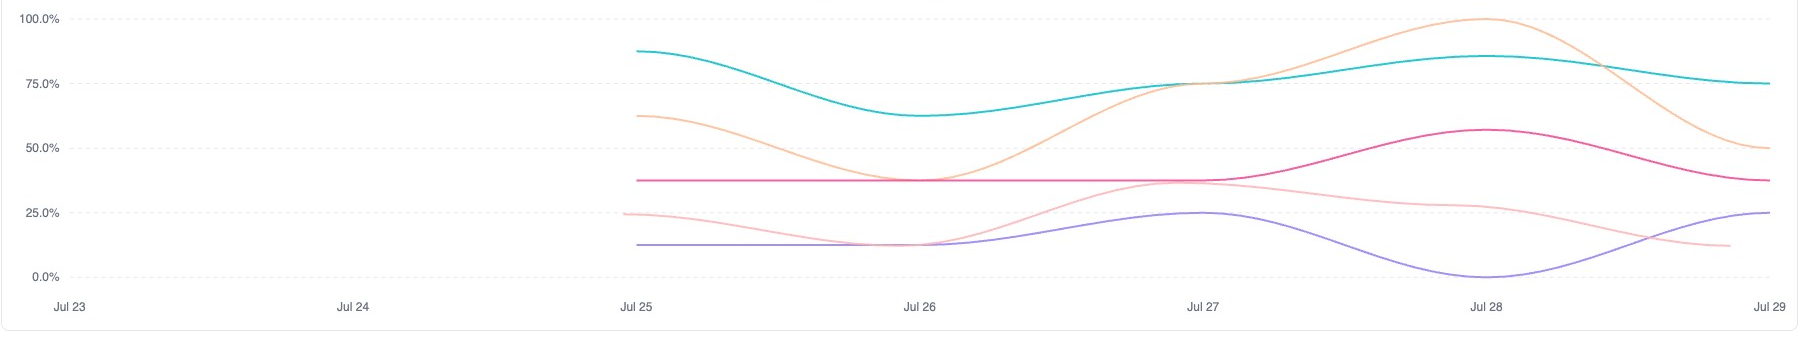
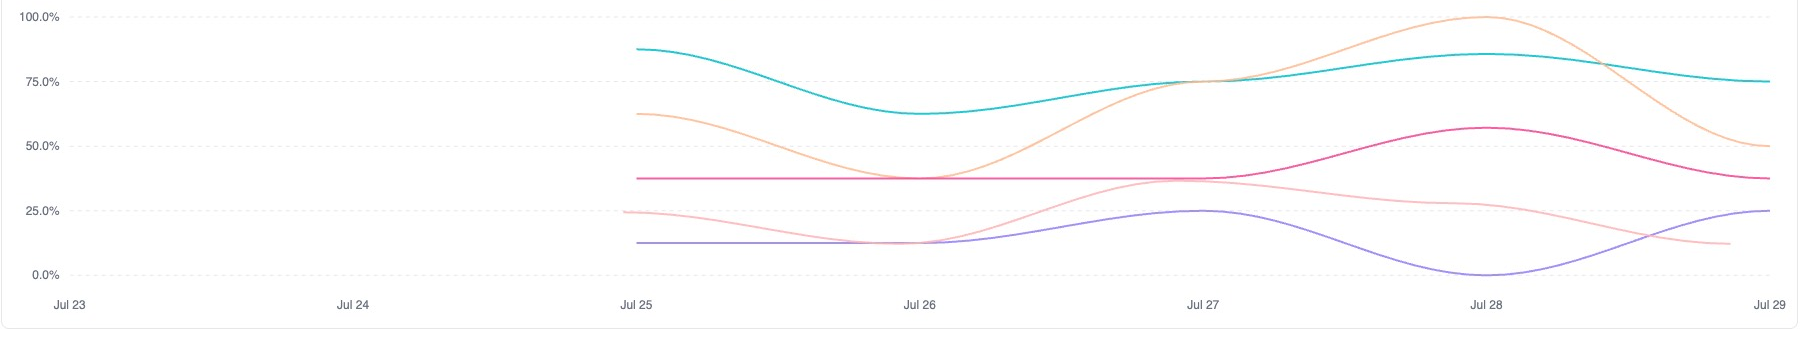
OCBC deck: 3 product visibility slides with native legends
Savings, credit card and digital banking — each with the overall
visibility trend, the tracker's KPI strip in M&C type, and TOFU/MOFU/
BOFU trends on the right.

Legends rebuilt natively (the embedded ones were unreadable at slide
size), colours sampled from the source charts. Critically, the tracker
assigns colour by series POSITION and the competitor set changes per
stage — teal is Mandiri on the credit-card overall chart but BCA on its
TOFU chart — so each of the 12 charts carries its own key rather than
one legend per slide. Screenshots recropped below their legends.

Deck is now 22 slides. Also fixed the overflow check, which was blind:
sections are overflow:hidden, so scrollHeight never exceeded
clientHeight and clipped content read as passing.

diff --git a/ocbc-mcs-deck/index.html b/ocbc-mcs-deck/index.html
@@ -230,6 +230,16 @@ ul.pts li:last-child{padding-bottom:0}
   border-left:4px solid var(--mcs-green-deep);font-size:18px;color:#4A4A4A}
 .ph-note strong{color:var(--mcs-black)}
 
+/* native legend — the tracker assigns colour by series position, and the
+   competitor set changes per stage, so every chart carries its own key */
+.lgd{display:flex;flex-wrap:wrap;gap:6px 18px;margin:0 0 10px}
+.lgd .lg{display:inline-flex;align-items:center;gap:7px;font-size:14px;color:#C8C8C8;white-space:nowrap}
+.lgd .lg i{width:13px;height:13px;border-radius:2px;flex:none}
+.lgd .lg.me{color:var(--mcs-white);font-weight:700}
+.lgd.sm{gap:4px 11px;margin-bottom:7px}
+.lgd.sm .lg{font-size:10.5px}
+.lgd.sm .lg i{width:10px;height:10px}
+
 /* ---------- product visibility slides (master chart + funnel charts) ---------- */
 .vgrid{display:grid;grid-template-columns:1.42fr 1fr;gap:28px;margin-top:24px;flex:1;min-height:0}
 .vmain{display:flex;flex-direction:column;min-height:0}
@@ -244,12 +254,12 @@ ul.pts li:last-child{padding-bottom:0}
 .shot{background:#fff;padding:10px 12px;display:block;width:100%;height:auto}
 .vmain .shot{width:100%;height:auto;display:block}
 
-.vside{display:flex;flex-direction:column;gap:14px;min-height:0}
+.vside{display:flex;flex-direction:column;gap:12px;min-height:0}
 .vcard{display:flex;flex-direction:column;background:var(--mcs-panel);
-  border-left:3px solid var(--mcs-grey-dim);padding:12px 14px;flex:1;min-height:0}
+  border-left:3px solid var(--mcs-grey-dim);padding:9px 12px;flex:1;min-height:0}
 .vcard.peak{border-left-color:var(--mcs-green)}
 .vcard.trough{border-left-color:var(--mcs-white)}
-.vcard .vc-top{display:flex;align-items:baseline;justify-content:space-between;gap:12px;margin-bottom:8px}
+.vcard .vc-top{display:flex;align-items:baseline;justify-content:space-between;gap:12px;margin-bottom:6px}
 .vcard .vc-s{font-size:13px;font-weight:700;letter-spacing:.18em;text-transform:uppercase;color:var(--mcs-white)}
 .vcard .vc-s small{display:block;font-size:11px;font-weight:400;letter-spacing:.04em;
   text-transform:none;color:var(--mcs-grey);margin-top:2px}
@@ -257,7 +267,7 @@ ul.pts li:last-child{padding-bottom:0}
   color:var(--mcs-grey);white-space:nowrap}
 .vcard.peak .vc-v{color:var(--mcs-green)}
 .vcard.trough .vc-v{color:var(--mcs-white)}
-.vcard .shot{flex:1;min-height:0;object-fit:cover;object-position:center}
+.vcard .shot{width:100%;height:94px;object-fit:cover;object-position:center}
 
 .vkpi{display:grid;grid-template-columns:repeat(5,1fr);gap:0;margin-top:auto;
   border-top:1px solid var(--mcs-rule);padding-top:12px}
@@ -382,7 +392,7 @@ ol.plist li .pen{color:var(--mcs-grey);font-style:italic}
 
   <div class="foot">
     <p>Sources: Ahrefs (Indonesia), live crawl June 2026, 60 live buyer-question tests across Google AI Overview, ChatGPT and Gemini</p>
-    <p class="num">02 / 20</p>
+    <p class="num">02 / 22</p>
   </div>
 </section>
 
@@ -420,7 +430,7 @@ ol.plist li .pen{color:var(--mcs-grey);font-style:italic}
 
   <div class="foot">
     <p>Source: Ahrefs, Indonesia market, June 2026</p>
-    <p class="num">03 / 20</p>
+    <p class="num">03 / 22</p>
   </div>
 </section>
 
@@ -449,7 +459,7 @@ ol.plist li .pen{color:var(--mcs-grey);font-style:italic}
 
   <div class="foot">
     <p>Source: Ahrefs product-page traffic, Indonesia, June 2026</p>
-    <p class="num">04 / 20</p>
+    <p class="num">04 / 22</p>
   </div>
 </section>
 
@@ -494,7 +504,7 @@ ol.plist li .pen{color:var(--mcs-grey);font-style:italic}
 
   <div class="foot">
     <p>Sources: Ahrefs, Indonesia; live page crawl of bankmandiri.co.id/tabunganku and ocbc.id TabunganKu, June 2026</p>
-    <p class="num">05 / 20</p>
+    <p class="num">05 / 22</p>
   </div>
 </section>
 
@@ -533,7 +543,7 @@ ol.plist li .pen{color:var(--mcs-grey);font-style:italic}
 
   <div class="foot">
     <p>Source: OCBC blog page-level classification, 2,500 pages, Ahrefs traffic June 2026</p>
-    <p class="num">06 / 20</p>
+    <p class="num">06 / 22</p>
   </div>
 </section>
 
@@ -576,7 +586,7 @@ ol.plist li .pen{color:var(--mcs-grey);font-style:italic}
 
   <div class="foot">
     <p>Source: live crawl of ocbc.id core product pages, June 2026 — this is on-page work on assets that already exist</p>
-    <p class="num">07 / 20</p>
+    <p class="num">07 / 22</p>
   </div>
 </section>
 
@@ -587,7 +597,7 @@ ol.plist li .pen{color:var(--mcs-grey);font-style:italic}
   <p class="ds">Search is no longer only a list of links. Buyers ask a question in their own words and act on the answer they are given. OCBC is already in that answer — but as an article about dream meanings, not as a bank with a product to sell.</p>
   <div class="foot">
     <p>60 live buyer questions tested across Google AI Overview, ChatGPT and Gemini — savings and credit card, June 2026</p>
-    <p class="num">08 / 20</p>
+    <p class="num">08 / 22</p>
   </div>
 </section>
 
@@ -629,24 +639,75 @@ ol.plist li .pen{color:var(--mcs-grey);font-style:italic}
 
   <div class="foot">
     <p>Source to be added</p>
-    <p class="num">09 / 20</p>
+    <p class="num">09 / 22</p>
   </div>
 </section>
 
-<!-- ============ 10 · PRODUCT VISIBILITY — CREDIT CARD ============ -->
+<!-- ============ 10 · PRODUCT VISIBILITY ============ -->
+<section class="s">
+  <img class="logo" src="assets/mcs-logo-white.svg" alt="M&amp;C Saatchi Performance">
+  <p class="kicker">GEO opportunity <span class="sep">/</span> Savings</p>
+  <h1 class="t sm">Strongest when they learn.<br>Absent when they compare.</h1>
+  <p class="sub">OCBC leads at <strong>46.0%</strong> while buyers research saving, then collapses to <strong>16.0%</strong> at the comparison stage &mdash; the moment the account is actually chosen.</p>
+  <div class="vgrid">
+    <div class="vmain">
+      <div class="vhead"><div class="vh-l">All savings prompts &middot; visibility score over time</div><div class="vh-v">30.9%</div></div>
+      <div class="lgd "><span class="lg me"><i style="background:#9989EE"></i>OCBC NISP</span><span class="lg"><i style="background:#1EBEC8"></i>Mandiri</span><span class="lg"><i style="background:#F9BF9D"></i>BCA</span><span class="lg"><i style="background:#E85896"></i>DBS</span><span class="lg"><i style="background:#F7B5B8"></i>CIMB Niaga</span></div>
+      <img class="shot" src="assets/sv-all.png" alt="AI search visibility over time for OCBC NISP against competitors, 23 to 29 July 2026">
+      <div class="vkpi">
+        <div><div class="k-v">43<span class="dim" style="font-size:15px">/139</span></div><div class="k-l">Brand mentions</div></div>
+        <div><div class="k-v">2.0</div><div class="k-l">Avg. position</div></div>
+        <div><div class="k-v g">30.9%</div><div class="k-l">Visibility</div></div>
+        <div><div class="k-v">21.1%</div><div class="k-l">Share of voice</div></div>
+        <div><div class="k-v">6.6%</div><div class="k-l">Owned citation share</div></div>
+      </div>
+    </div>
+
+    <div class="vside">
+      <div class="vcard peak">
+        <div class="vc-top">
+          <div class="vc-s">TOFU<small>Learning how to save</small></div>
+          <div class="vc-v">46.0%</div>
+        </div>
+        <div class="lgd sm"><span class="lg me"><i style="background:#9989EE"></i>OCBC NISP</span><span class="lg"><i style="background:#1EBEC8"></i>Mandiri</span><span class="lg"><i style="background:#F9BF9D"></i>BCA</span><span class="lg"><i style="background:#E85896"></i>DBS</span><span class="lg"><i style="background:#F7B5B8"></i>CIMB Niaga</span></div>
+        <img class="shot" src="assets/sv-tofu.png" alt="Visibility score over time at the TOFU stage">
+      </div>
+      <div class="vcard trough">
+        <div class="vc-top">
+          <div class="vc-s">MOFU<small>Comparing accounts</small></div>
+          <div class="vc-v">16.0%</div>
+        </div>
+        <div class="lgd sm"><span class="lg me"><i style="background:#9989EE"></i>OCBC NISP</span><span class="lg"><i style="background:#1EBEC8"></i>Mandiri</span><span class="lg"><i style="background:#F9BF9D"></i>BCA</span><span class="lg"><i style="background:#E85896"></i>CIMB Niaga</span><span class="lg"><i style="background:#F7B5B8"></i>Danamon</span></div>
+        <img class="shot" src="assets/sv-mofu.png" alt="Visibility score over time at the MOFU stage">
+      </div>
+      <div class="vcard ">
+        <div class="vc-top">
+          <div class="vc-s">BOFU<small>Ready to open</small></div>
+          <div class="vc-v">30.8%</div>
+        </div>
+        <div class="lgd sm"><span class="lg me"><i style="background:#9989EE"></i>OCBC NISP</span><span class="lg"><i style="background:#1EBEC8"></i>Mandiri</span><span class="lg"><i style="background:#F9BF9D"></i>DBS</span><span class="lg"><i style="background:#E85896"></i>BCA</span><span class="lg"><i style="background:#F7B5B8"></i>Jenius</span></div>
+        <img class="shot" src="assets/sv-bofu.png" alt="Visibility score over time at the BOFU stage">
+      </div>
+    </div>
+  </div>
+
+  <div class="foot">
+    <p>AI search visibility tracked daily 23&ndash;29 July 2026. Line colours follow the tracker &mdash; the competitor set differs per stage, so each chart carries its own key</p>
+    <p class="num">10 / 22</p>
+  </div>
+</section>
+
+<!-- ============ 11 · PRODUCT VISIBILITY ============ -->
 <section class="s">
   <img class="logo" src="assets/mcs-logo-white.svg" alt="M&amp;C Saatchi Performance">
   <p class="kicker">GEO opportunity <span class="sep">/</span> Credit card</p>
   <h1 class="t sm">Visible while they learn.<br>Invisible when they apply.</h1>
-  <p class="sub">OCBC holds a <strong>24–29%</strong> visibility score while buyers are researching, then falls to <strong>15.4%</strong> at the apply moment — where BCA and Mandiri run between 75% and 100%.</p>
-
+  <p class="sub">OCBC holds <strong>24&ndash;29%</strong> while buyers are researching, then falls to <strong>15.4%</strong> at the apply moment &mdash; where BCA and Mandiri run between 75% and 100%.</p>
   <div class="vgrid">
     <div class="vmain">
-      <div class="vhead">
-        <div class="vh-l">All credit-card prompts &middot; visibility score over time</div>
-        <div class="vh-v">23.2%</div>
-      </div>
-      <img class="shot" src="assets/cc-all.png" alt="AI search visibility over time for OCBC NISP against Mandiri, BCA, CIMB Niaga and Danamon across all credit-card prompts, 23 to 29 July 2026">
+      <div class="vhead"><div class="vh-l">All credit-card prompts &middot; visibility score over time</div><div class="vh-v">23.2%</div></div>
+      <div class="lgd "><span class="lg me"><i style="background:#9989EE"></i>OCBC NISP</span><span class="lg"><i style="background:#1EBEC8"></i>Mandiri</span><span class="lg"><i style="background:#F9BF9D"></i>BCA</span><span class="lg"><i style="background:#E85896"></i>CIMB Niaga</span><span class="lg"><i style="background:#F7B5B8"></i>Danamon</span></div>
+      <img class="shot" src="assets/cc-all.png" alt="AI search visibility over time for OCBC NISP against competitors, 23 to 29 July 2026">
       <div class="vkpi">
         <div><div class="k-v">32<span class="dim" style="font-size:15px">/138</span></div><div class="k-l">Brand mentions</div></div>
         <div><div class="k-v">2.3</div><div class="k-l">Avg. position</div></div>
@@ -657,33 +718,90 @@ ol.plist li .pen{color:var(--mcs-grey);font-style:italic}
     </div>
 
     <div class="vside">
-      <div class="vcard">
+      <div class="vcard ">
         <div class="vc-top">
           <div class="vc-s">TOFU<small>Learning how cards work</small></div>
           <div class="vc-v">24.0%</div>
         </div>
-        <img class="shot" src="assets/cc-tofu.png" alt="Visibility score over time at the TOFU stage, OCBC NISP against competitors">
+        <div class="lgd sm"><span class="lg me"><i style="background:#9989EE"></i>OCBC NISP</span><span class="lg"><i style="background:#1EBEC8"></i>BCA</span><span class="lg"><i style="background:#F9BF9D"></i>Mandiri</span><span class="lg"><i style="background:#E85896"></i>CIMB Niaga</span><span class="lg"><i style="background:#F7B5B8"></i>Danamon</span></div>
+        <img class="shot" src="assets/cc-tofu.png" alt="Visibility score over time at the TOFU stage">
       </div>
       <div class="vcard peak">
         <div class="vc-top">
           <div class="vc-s">MOFU<small>Choosing between cards</small></div>
           <div class="vc-v">28.6%</div>
         </div>
-        <img class="shot" src="assets/cc-mofu.png" alt="Visibility score over time at the MOFU stage, OCBC NISP against competitors">
+        <div class="lgd sm"><span class="lg me"><i style="background:#9989EE"></i>OCBC NISP</span><span class="lg"><i style="background:#1EBEC8"></i>BCA</span><span class="lg"><i style="background:#F9BF9D"></i>Mandiri</span><span class="lg"><i style="background:#E85896"></i>CIMB Niaga</span><span class="lg"><i style="background:#F7B5B8"></i>UOB Indonesia</span></div>
+        <img class="shot" src="assets/cc-mofu.png" alt="Visibility score over time at the MOFU stage">
       </div>
       <div class="vcard trough">
         <div class="vc-top">
           <div class="vc-s">BOFU<small>Ready to apply</small></div>
           <div class="vc-v">15.4%</div>
         </div>
-        <img class="shot" src="assets/cc-bofu.png" alt="Visibility score over time at the BOFU stage, OCBC NISP trailing Mandiri, BCA, CIMB Niaga and Danamon">
+        <div class="lgd sm"><span class="lg me"><i style="background:#9989EE"></i>OCBC NISP</span><span class="lg"><i style="background:#1EBEC8"></i>Mandiri</span><span class="lg"><i style="background:#F9BF9D"></i>BCA</span><span class="lg"><i style="background:#E85896"></i>CIMB Niaga</span><span class="lg"><i style="background:#F7B5B8"></i>Danamon</span></div>
+        <img class="shot" src="assets/cc-bofu.png" alt="Visibility score over time at the BOFU stage">
       </div>
     </div>
   </div>
 
   <div class="foot">
-    <p>AI search visibility tracked daily 23&ndash;29 July 2026 vs Mandiri, BCA, CIMB Niaga and Danamon &mdash; the deeper the funnel, the wider the gap</p>
-    <p class="num">10 / 20</p>
+    <p>AI search visibility tracked daily 23&ndash;29 July 2026. Line colours follow the tracker &mdash; the competitor set differs per stage, so each chart carries its own key</p>
+    <p class="num">11 / 22</p>
+  </div>
+</section>
+
+<!-- ============ 12 · PRODUCT VISIBILITY ============ -->
+<section class="s">
+  <img class="logo" src="assets/mcs-logo-white.svg" alt="M&amp;C Saatchi Performance">
+  <p class="kicker">GEO opportunity <span class="sep">/</span> Digital banking</p>
+  <h1 class="t sm">Visibility halves at<br>every step of the funnel.</h1>
+  <p class="sub">OCBC&rsquo;s weakest AI position: <strong>14.2%</strong> overall, falling from 22.5% to 12.0% to <strong>6.7%</strong> at the point of opening an account &mdash; where Mandiri holds 63&ndash;84%.</p>
+  <div class="vgrid">
+    <div class="vmain">
+      <div class="vhead"><div class="vh-l">All digital-banking prompts &middot; visibility score over time</div><div class="vh-v">14.2%</div></div>
+      <div class="lgd "><span class="lg me"><i style="background:#9989EE"></i>OCBC NISP</span><span class="lg"><i style="background:#1EBEC8"></i>BCA</span><span class="lg"><i style="background:#F9BF9D"></i>Mandiri</span><span class="lg"><i style="background:#E85896"></i>Jenius</span><span class="lg"><i style="background:#F7B5B8"></i>DBS</span></div>
+      <img class="shot" src="assets/db-all.png" alt="AI search visibility over time for OCBC NISP against competitors, 23 to 29 July 2026">
+      <div class="vkpi">
+        <div><div class="k-v">17<span class="dim" style="font-size:15px">/120</span></div><div class="k-l">Brand mentions</div></div>
+        <div><div class="k-v">2.5</div><div class="k-l">Avg. position</div></div>
+        <div><div class="k-v g">14.2%</div><div class="k-l">Visibility</div></div>
+        <div><div class="k-v">7.4%</div><div class="k-l">Share of voice</div></div>
+        <div><div class="k-v">2.6%</div><div class="k-l">Owned citation share</div></div>
+      </div>
+    </div>
+
+    <div class="vside">
+      <div class="vcard peak">
+        <div class="vc-top">
+          <div class="vc-s">TOFU<small>Learning what digital banking is</small></div>
+          <div class="vc-v">22.5%</div>
+        </div>
+        <div class="lgd sm"><span class="lg me"><i style="background:#9989EE"></i>OCBC NISP</span><span class="lg"><i style="background:#1EBEC8"></i>BCA</span><span class="lg"><i style="background:#F9BF9D"></i>Jenius</span><span class="lg"><i style="background:#E85896"></i>Mandiri</span><span class="lg"><i style="background:#F7B5B8"></i>DBS</span></div>
+        <img class="shot" src="assets/db-tofu.png" alt="Visibility score over time at the TOFU stage">
+      </div>
+      <div class="vcard ">
+        <div class="vc-top">
+          <div class="vc-s">MOFU<small>Comparing digital banks</small></div>
+          <div class="vc-v">12.0%</div>
+        </div>
+        <div class="lgd sm"><span class="lg me"><i style="background:#9989EE"></i>OCBC NISP</span><span class="lg"><i style="background:#1EBEC8"></i>BCA</span><span class="lg"><i style="background:#F9BF9D"></i>Mandiri</span><span class="lg"><i style="background:#E85896"></i>DBS</span><span class="lg"><i style="background:#F7B5B8"></i>Jenius</span></div>
+        <img class="shot" src="assets/db-mofu.png" alt="Visibility score over time at the MOFU stage">
+      </div>
+      <div class="vcard trough">
+        <div class="vc-top">
+          <div class="vc-s">BOFU<small>Ready to open</small></div>
+          <div class="vc-v">6.7%</div>
+        </div>
+        <div class="lgd sm"><span class="lg me"><i style="background:#9989EE"></i>OCBC NISP</span><span class="lg"><i style="background:#1EBEC8"></i>BCA</span><span class="lg"><i style="background:#F9BF9D"></i>Mandiri</span><span class="lg"><i style="background:#E85896"></i>DBS</span><span class="lg"><i style="background:#F7B5B8"></i>Jenius</span></div>
+        <img class="shot" src="assets/db-bofu.png" alt="Visibility score over time at the BOFU stage">
+      </div>
+    </div>
+  </div>
+
+  <div class="foot">
+    <p>AI search visibility tracked daily 23&ndash;29 July 2026. Line colours follow the tracker &mdash; the competitor set differs per stage, so each chart carries its own key</p>
+    <p class="num">12 / 22</p>
   </div>
 </section>
 
@@ -730,7 +848,7 @@ ol.plist li .pen{color:var(--mcs-grey);font-style:italic}
 
   <div class="foot">
     <p>Left: aggregate AI brand-mention dataset. Right: live testing of 60 real buyer questions — two views of AI visibility, not one ranking</p>
-    <p class="num">11 / 20</p>
+    <p class="num">13 / 22</p>
   </div>
 </section>
 
@@ -772,7 +890,7 @@ ol.plist li .pen{color:var(--mcs-grey);font-style:italic}
 
   <div class="foot">
     <p>Source: 60 live buyer-question tests, Google AI Overview / ChatGPT / Gemini, June 2026</p>
-    <p class="num">12 / 20</p>
+    <p class="num">14 / 22</p>
   </div>
 </section>
 
@@ -819,7 +937,7 @@ ol.plist li .pen{color:var(--mcs-grey);font-style:italic}
 
   <div class="foot">
     <p>Sources: 30 credit-card buyer questions classified by funnel stage; Ahrefs non-branded split, Indonesia, June 2026</p>
-    <p class="num">13 / 20</p>
+    <p class="num">15 / 22</p>
   </div>
 </section>
 
@@ -844,7 +962,7 @@ ol.plist li .pen{color:var(--mcs-grey);font-style:italic}
 
   <div class="foot">
     <p>Source: live buyer-question testing, June 2026 — each row is a question where AI named a competitor and OCBC offers the same product</p>
-    <p class="num">14 / 20</p>
+    <p class="num">16 / 22</p>
   </div>
 </section>
 
@@ -882,7 +1000,7 @@ ol.plist li .pen{color:var(--mcs-grey);font-style:italic}
 
   <div class="foot">
     <p>Both engines run on pages OCBC already owns — the programme adds structure and message, not volume</p>
-    <p class="num">15 / 20</p>
+    <p class="num">17 / 22</p>
   </div>
 </section>
 
@@ -936,7 +1054,7 @@ ol.plist li .pen{color:var(--mcs-grey);font-style:italic}
 
   <div class="foot">
     <p>Estimates are directional until OCBC's Search Console is connected; from that point they are measured</p>
-    <p class="num">16 / 20</p>
+    <p class="num">18 / 22</p>
   </div>
 </section>
 
@@ -968,7 +1086,7 @@ ol.plist li .pen{color:var(--mcs-grey);font-style:italic}
   </table>
   <div class="foot">
     <p>Tested live June 2026 via Google AI Overview, ChatGPT and Gemini. Funnel stage for savings is our classification, applied on the same basis as the credit-card set</p>
-    <p class="num">17 / 20</p>
+    <p class="num">19 / 22</p>
   </div>
 </section>
 
@@ -1000,7 +1118,7 @@ ol.plist li .pen{color:var(--mcs-grey);font-style:italic}
   </table>
   <div class="foot">
     <p>Tested live June 2026 via Google AI Overview, ChatGPT and Gemini. Funnel stage for savings is our classification, applied on the same basis as the credit-card set</p>
-    <p class="num">18 / 20</p>
+    <p class="num">20 / 22</p>
   </div>
 </section>
 
@@ -1032,7 +1150,7 @@ ol.plist li .pen{color:var(--mcs-grey);font-style:italic}
   </table>
   <div class="foot">
     <p>Tested live June 2026 via Google AI Overview, ChatGPT and Gemini. Funnel stage as classified in the source analysis; four servicing queries sit outside the acquisition funnel</p>
-    <p class="num">19 / 20</p>
+    <p class="num">21 / 22</p>
   </div>
 </section>
 
@@ -1064,7 +1182,7 @@ ol.plist li .pen{color:var(--mcs-grey);font-style:italic}
   </table>
   <div class="foot">
     <p>Tested live June 2026 via Google AI Overview, ChatGPT and Gemini. Funnel stage as classified in the source analysis; four servicing queries sit outside the acquisition funnel</p>
-    <p class="num">20 / 20</p>
+    <p class="num">22 / 22</p>
   </div>
 </section>
 
